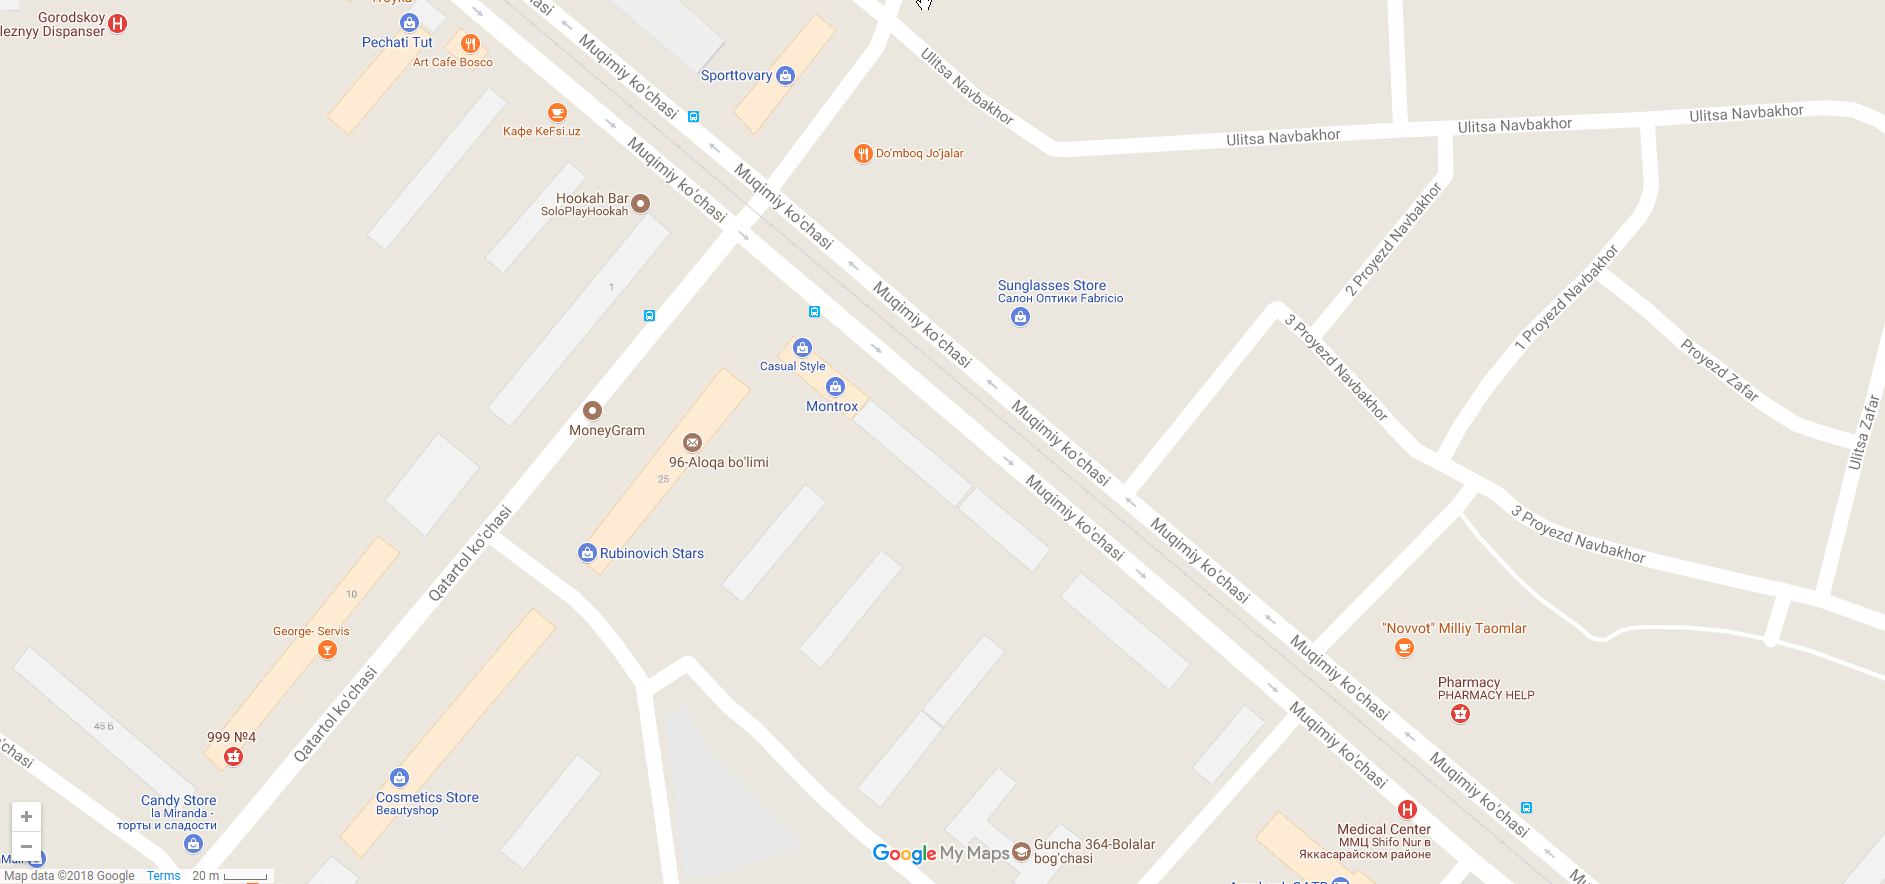
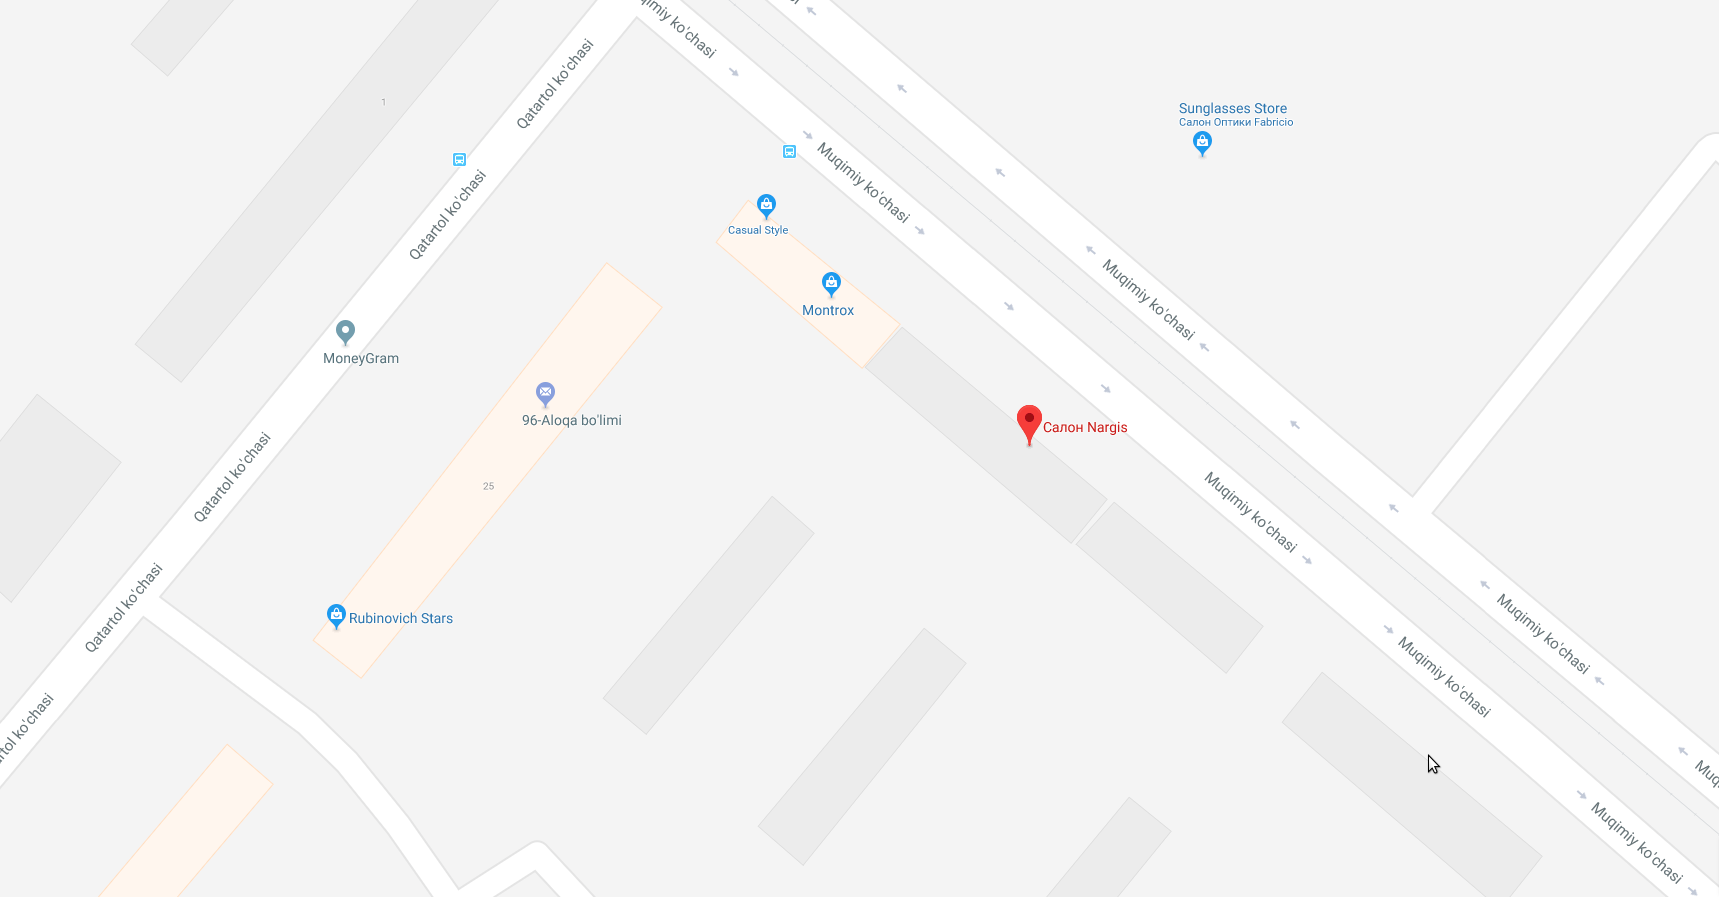
Some changes (images, style, text).

diff --git a/src/app/portfolio/portfolio.component.html b/src/app/portfolio/portfolio.component.html
@@ -7,42 +7,42 @@
 
       <section class="description">
         <img src="/assets/images/nail.jpg" alt="Nail">
-        <h4 class="description-header">Нарашивание ногтей</h4>
+        <h4 class="description-header">Наращивание ногтей</h4>
       </section>
 
       <section class="description">
-        <img src="/assets/images/nail.jpg" alt="Nail">
-        <h4 class="description-header">Нарашивание ногтей</h4>
+        <img src="/assets/images/portfolio-8.jpg" alt="Nail">
+        <h4 class="description-header">Наращивание волосы холодное микро, средние, большое капсулы</h4>
       </section>
 
       <section class="description">
-        <img src="/assets/images/nail.jpg" alt="Nail">
-        <h4 class="description-header">Нарашивание ногтей</h4>
+        <img src="/assets/images/portfolio-1.jpg" alt="Lips">
+        <h4 class="description-header">Увеличение губ гелем</h4>
       </section>
 
       <section class="description">
-        <img src="/assets/images/nail.jpg" alt="Nail">
-        <h4 class="description-header">Нарашивание ногтей</h4>
+        <img src="/assets/images/portfolio-3.jpg" alt="Nail">
+        <h4 class="description-header">Лазерное удаление тата и татуаж</h4>
       </section>
 
       <section class="description">
-        <img src="/assets/images/nail.jpg" alt="Nail">
-        <h4 class="description-header">Нарашивание ногтей</h4>
+        <img src="/assets/images/portfolio-7.jpg" alt="Nail">
+        <h4 class="description-header">Лазерное удаление татуировок</h4>
       </section>
 
       <section class="description">
-        <img src="/assets/images/nail.jpg" alt="Nail">
-        <h4 class="description-header">Нарашивание ногтей</h4>
+        <img src="/assets/images/portfolio-4.jpg" alt="Nail">
+        <h4 class="description-header">Наращивание ресницы 2D/3D</h4>
       </section>
 
       <section class="description">
-        <img src="/assets/images/nail.jpg" alt="Nail">
-        <h4 class="description-header">Нарашивание ногтей</h4>
+        <img src="/assets/images/portfolio-5.jpg" alt="Nail">
+        <h4 class="description-header">Растушевка и татуаж</h4>
       </section>
 
       <section class="description">
-        <img src="/assets/images/nail.jpg" alt="Nail">
-        <h4 class="description-header">Нарашивание ногтей</h4>
+        <img src="/assets/images/portfolio-6.jpg" alt="Nail">
+        <h4 class="description-header">Растушевка и татуаж</h4>
       </section>
 
     </section>

diff --git a/src/app/map/map.component.html b/src/app/map/map.component.html
@@ -1,11 +1,41 @@
 <article>
   <section class="content">
 
-    <a href="https://www.google.com/maps/place/%D0%A1%D0%B0%D0%BB%D0%BE%D0%BD+Nargis/@41.2952005,69.2155498,17z/data=!4m12!1m6!3m5!1s0x38ae8a4aca9c26a5:0xa22514ddefc313ac!2z0KHQsNC70L7QvSBOYXJnaXM!8m2!3d41.2952005!4d69.2177385!3m4!1s0x38ae8a4aca9c26a5:0xa22514ddefc313ac!8m2!3d41.2952005!4d69.2177385?hl=en" target="_blank">
+    <a
+      href="https://www.google.com/maps/place/%D0%A1%D0%B0%D0%BB%D0%BE%D0%BD+Nargis/@41.2953798,69.2169017,19z/data=!4m12!1m6!3m5!1s0x38ae8a4aca9c26a5:0xa22514ddefc313ac!2z0KHQsNC70L7QvSBOYXJnaXM!8m2!3d41.2953798!4d69.2174502!3m4!1s0x38ae8a4aca9c26a5:0xa22514ddefc313ac!8m2!3d41.2953798!4d69.2174502?hl=en"
+      target="_blank">
       <h3>Наш адрес</h3>
       <section class="address">
-        г.Ташкент, Чиланзар-5, ул. Мукими, дом 24<br>
-        ориентир метро Новза, магазин "Спорт товары"
+        <table>
+          <tr>
+            <td><strong>Город/район:</strong></td>
+            <td>Ташкент > Чиланзарский район</td>
+          </tr>
+          <tr>
+            <td><strong>Адрес:</strong></td>
+            <td>Чиланзар, 5 квартал, ул. Мукими, дом 24, салон красоты NARGIS</td>
+          </tr>
+          <tr>
+            <td><strong>Ориентиры:</strong></td>
+            <td>магазин "Спорт товары" на ул. Мукими, станция метро Новза (Хамза)</td>
+          </tr>
+          <tr>
+            <td><strong>Телефон:</strong></td>
+            <td>+998 90 911-15-58</td>
+          </tr>
+          <tr>
+            <td><strong>Контактное лицо:</strong></td>
+            <td>Джамшид</td>
+          </tr>
+          <tr>
+            <td><strong>Рабочие дни:</strong></td>
+            <td>7 дней в неделю</td>
+          </tr>
+          <tr>
+            <td><strong>Рабочие часы:</strong></td>
+            <td>8:00 - 22:00</td>
+          </tr>
+        </table>
       </section>
     </a>
 

diff --git a/src/app/map/map.component.scss b/src/app/map/map.component.scss
@@ -1,7 +1,7 @@
 article {
-  background-color: #ff29d1;
+  background-color: #ebebeb;
   background-size: cover;
-  background: url("~/assets/images/map-full.png") no-repeat center center fixed;
+  background: url("~/assets/images/map-full.png") repeat-x center center fixed;
   min-height: 700px;
   box-sizing: border-box;
   display: flex;
@@ -34,7 +34,7 @@ article {
       color: #000;
       font-size: 24px;
       font-family: Lato sans-serif;
-      text-align: center;
+      text-align: left;
     }
   }
 }
@@ -42,16 +42,24 @@ article {
 @media(max-width: 576px) {
   article {
     background: url("~/assets/images/map-700.png") repeat-y 0%/100% fixed;
-    min-height: 200px;
+    min-height: 300px;
     .content {
-      margin: 40px 20px;
-      padding: 1px 20px;
+      width: 100%;
+      margin: 10px;
+      padding: 10px;
 
       h3 {
-        font-size: 32px;
+        font-size: 20px;
       }
       .address {
-        font-size: 18px;
+        font-size: 12px;
+        td {
+          vertical-align: top;
+          &:first-child {
+            text-align: right;
+            width: 100px;
+          }
+        }
       }
     }
   }

diff --git a/src/app/header/header.component.html b/src/app/header/header.component.html
@@ -1,8 +1,17 @@
 <header>
   <section class="header-content">
     <div class="logo">Nargis</div>
-    <div class="description">Все для волос - калейдоскоп стрижек, причесок, окрашиваний, способов наращивания волос, а
-      также процедур для поддержания их здоровья и красоты
+    <div class="description">
+      Все для волос
+      <ul>
+        <li>Наращивание волосы</li>
+        <li>Наращивание ногтей</li>
+        <li>Наращивание ресницы</li>
+        <li>Растушевка и татуаж</li>
+        <li>Лазерное удаление тату и татуаж</li>
+        <li>Свадебные причёски</li>
+        <li>Стрижки ж/м</li>
+      </ul>
     </div>
   </section>
 </header>

diff --git a/src/app/services/services.component.html b/src/app/services/services.component.html
@@ -47,16 +47,6 @@
 
       <section class="description">
         <div class="img">
-          <img src="/assets/images/srv5.png" alt="Услуги">
-        </div>
-        <div class="body">
-          <h4>Барбершоп</h4>
-          <p>Утренний, дневной, вечерний макияж, татуаж, уход за лицом</p>
-        </div>
-      </section>
-
-      <section class="description">
-        <div class="img">
           <img src="/assets/images/srv1.png" alt="Услуги">
         </div>
         <div class="body">

diff --git a/src/app/header/header.component.scss b/src/app/header/header.component.scss
@@ -26,6 +26,11 @@ header {
       font-size: 24px;
       font-family: Lato sans-serif;
       text-align: center;
+      ul {
+        text-align: left;
+        font-size: 18px;
+        list-style-type: circle;
+      }
     }
   }
 }

diff --git a/src/app/portfolio/portfolio.component.scss b/src/app/portfolio/portfolio.component.scss
@@ -68,6 +68,10 @@ article {
           img {
             width: 100%;
           }
+          .description-header {
+            font-size: 14px;
+            font-weight: normal;
+          }
         }
       }
 
